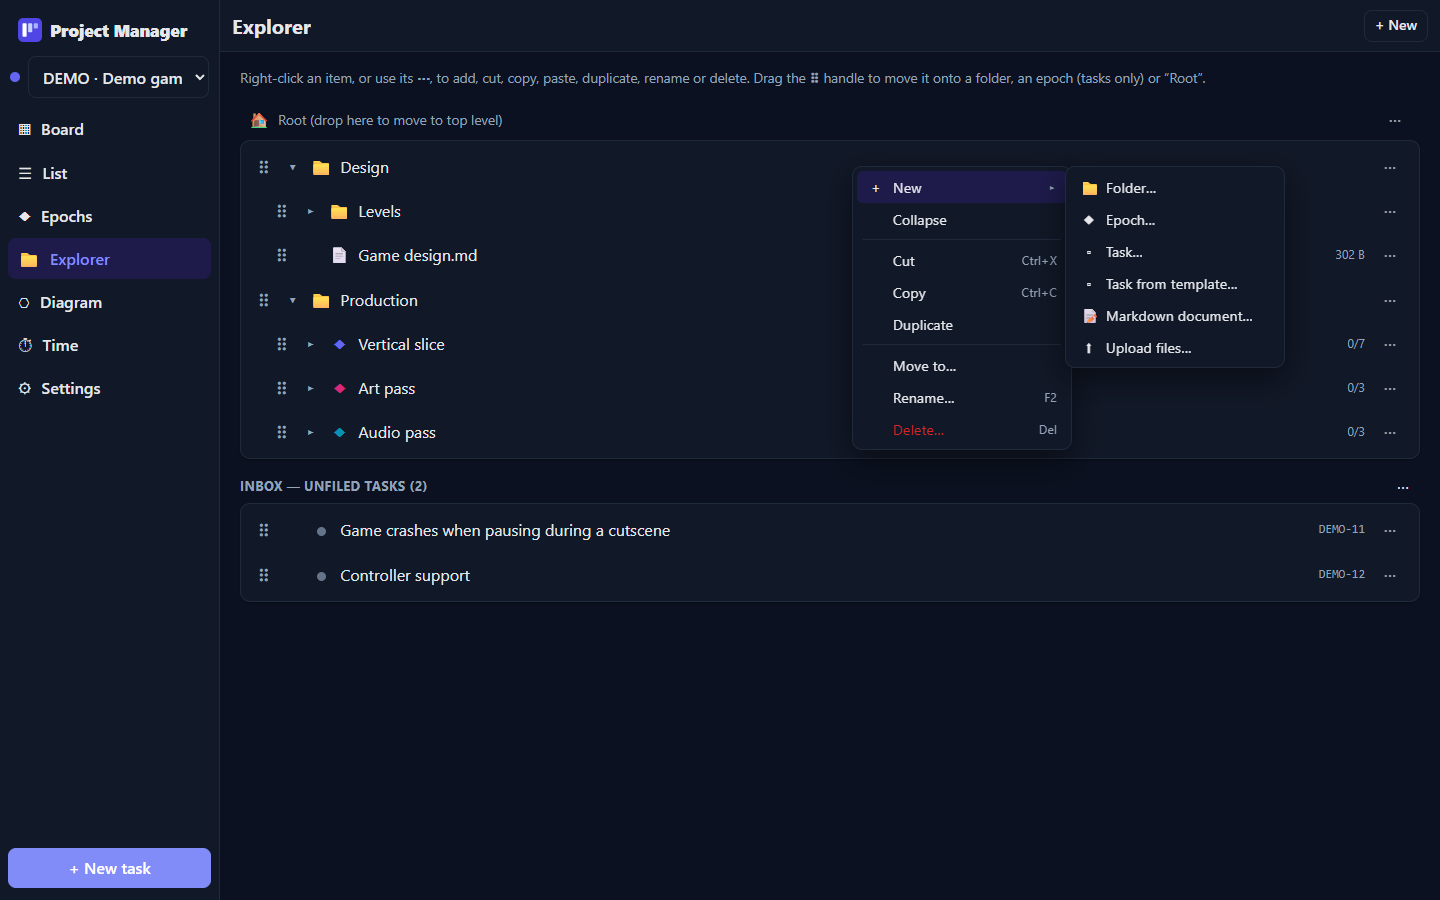
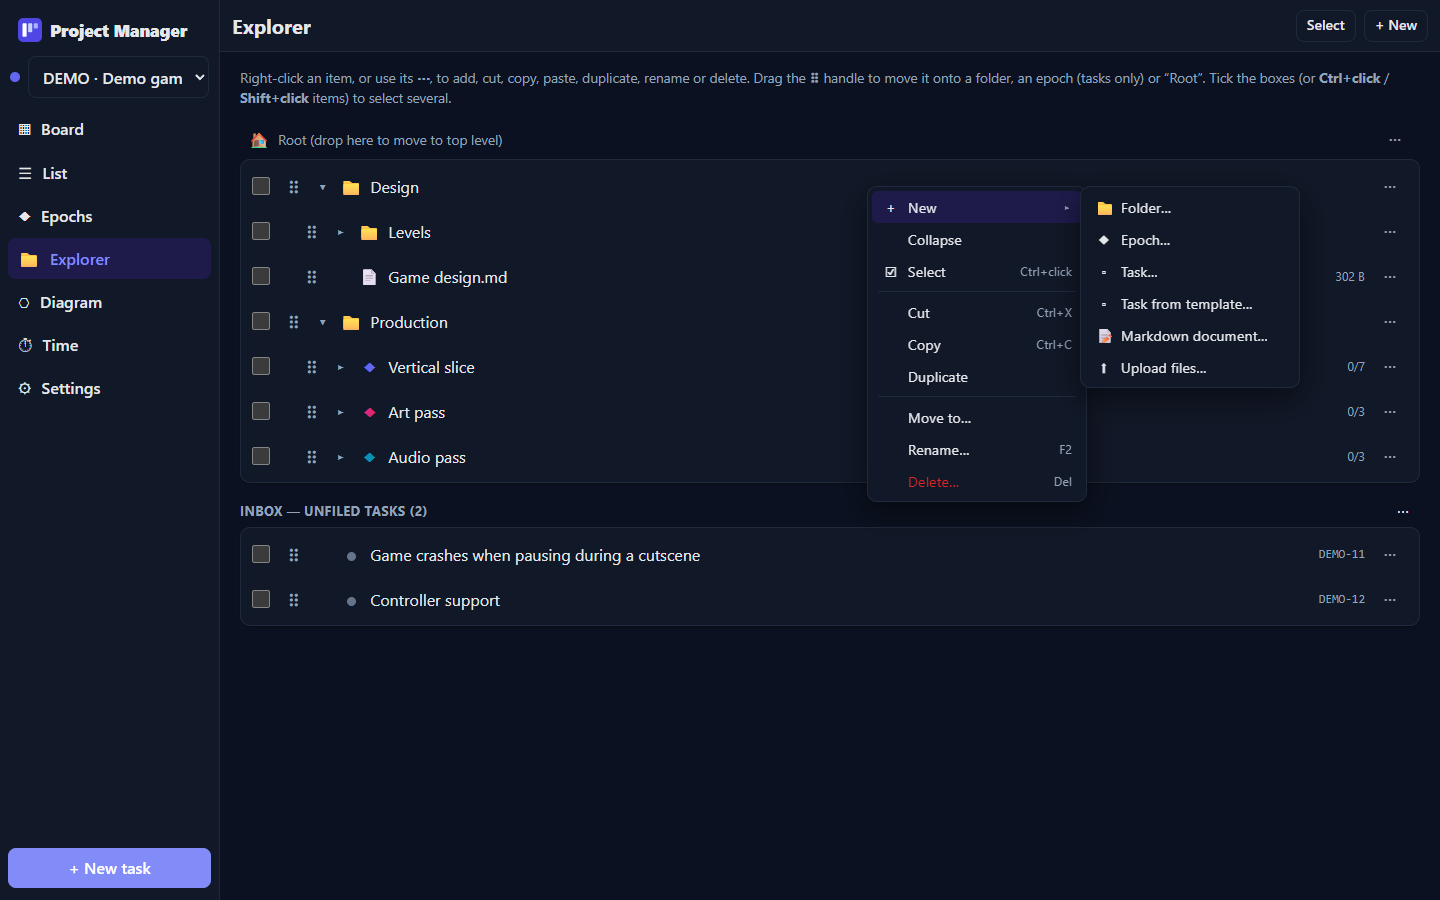
Show a task as blocked only once it catches up with its blocker
A task can't get ahead of the tasks that block it. It now shows as Blocked only once it has caught up with one (it is in the same column, or further on), until that task moves on, in every column. Before, it showed as Blocked whenever a blocker hadn't reached Alpha Complete, even when the blocker was well ahead of it. A blocker that is Ready to Ship blocks nothing.

- Server: openBlockers uses the new rule, and task details mark each "blocks" link with blocking: true while it holds its blocked task up.
- Task panel: the Blocked note names the tasks holding this one up and their columns, and links that hold a task up right now are marked in red, on both tasks.
- Board cards: the Blocked tooltip explains the rule.
- pm marks links "(holding this task up)" or "(waiting for this task)"; SKILL.md, API.md and the README explain the rule.
- Demo data: Guardian attack patterns is blocked by Enemy patrol AI, so the screenshots still show a Blocked card. The README screenshots are retaken; the Explorer one now shows its checkboxes.
- Tests: a blocked task walked across the board, and each blocker counting on its own.

diff --git a/server/routes/tasks.ts b/server/routes/tasks.ts
@@ -55,20 +55,41 @@ export interface CategoryRef {
 const LOGGED_EXPR = `COALESCE(minutes, MAX(0, CAST(ROUND((julianday('now') - julianday(started_at)) * 1440) AS INTEGER)))`;
 
 /**
- * A blocker stops blocking once it reaches Alpha Complete (implemented and through alpha QA).
- * Status ids are fixed constants, so inlining them in SQL is safe.
+ * A sub-task counts as done once it reaches Alpha Complete (implemented and through alpha QA).
+ * Status ids are fixed constants, so inlining them in SQL is safe (here and in columnSql).
  */
-const UNRESOLVED_STATUSES = STATUSES.slice(0, STATUSES.findIndex((s) => s.id === 'alpha_complete'))
+const NOT_DONE_STATUSES = STATUSES.slice(0, STATUSES.findIndex((s) => s.id === 'alpha_complete'))
   .map((s) => `'${s.id}'`)
   .join(', ');
+
+/** The last column, Ready to Ship: a blocker there holds nothing up. */
+const LAST_STATUS = STATUSES[STATUSES.length - 1].id;
+
+/** Where a status is on the board, from 0 (Open) to the last column; -1 for a status that isn't one. */
+const columnOf = (status: string) => STATUSES.findIndex((s) => s.id === status);
+
+/** columnOf in SQL, for a status column (NULL for a status that isn't one). */
+const columnSql = (col: string) => `CASE ${col} ${STATUSES.map((s, i) => `WHEN '${s.id}' THEN ${i}`).join(' ')} END`;
+
+/**
+ * Whether a task in `status` is held up by a task in `blockerStatus` that blocks it. A task can't get ahead of
+ * the tasks that block it: once it has caught up with one (it is in the same column, or further on) it is
+ * blocked, until that task moves on. A blocker that is Ready to Ship holds nothing up. TASK_SELECT counts the
+ * same thing in SQL (open_blockers), so the two must change together.
+ */
+function heldUpBy(status: string, blockerStatus: string): boolean {
+  const blocker = columnOf(blockerStatus);
+  return blocker >= 0 && blockerStatus !== LAST_STATUS && columnOf(status) >= blocker;
+}
 
 const TASK_SELECT = `
   SELECT t.*, p.key AS project_key, e.name AS epoch_name, e.color AS epoch_color,
     pt.number AS parent_number, pt.title AS parent_title,
     (SELECT COUNT(*) FROM tasks c WHERE c.parent_id = t.id) AS subtask_total,
-    (SELECT COUNT(*) FROM tasks c WHERE c.parent_id = t.id AND c.status NOT IN (${UNRESOLVED_STATUSES})) AS subtask_done,
+    (SELECT COUNT(*) FROM tasks c WHERE c.parent_id = t.id AND c.status NOT IN (${NOT_DONE_STATUSES})) AS subtask_done,
     (SELECT COUNT(*) FROM task_links l JOIN tasks b ON b.id = l.source_id
-      WHERE l.target_id = t.id AND l.kind = 'blocks' AND b.status IN (${UNRESOLVED_STATUSES})) AS open_blockers,
+      WHERE l.target_id = t.id AND l.kind = 'blocks' AND b.status <> '${LAST_STATUS}'
+        AND ${columnSql('t.status')} >= ${columnSql('b.status')}) AS open_blockers,
     (SELECT SUM(${LOGGED_EXPR}) FROM time_entries WHERE task_id = t.id) AS logged_minutes,
     EXISTS (SELECT 1 FROM time_entries WHERE task_id = t.id AND ended_at IS NULL AND minutes IS NULL) AS timer_running,
     (SELECT COUNT(*) FROM checklist_items WHERE task_id = t.id) AS checklist_total,
@@ -197,7 +218,7 @@ function toDto(row: TaskRow, cats: Map<number, CategoryRef>, nesting: Nesting) {
     loggedMinutes: row.logged_minutes ?? 0,
     timerRunning: !!row.timer_running,
     checklist: { done: row.checklist_done, total: row.checklist_total },
-    /** Tasks that block this one and haven't reached Alpha Complete yet. */
+    /** Tasks that block this one and that it has caught up with (see heldUpBy): it waits for them to move on. */
     openBlockers: row.open_blockers,
     /** The task this one is a sub-task of (always in the same project), or null. */
     parentId: row.parent_id,
@@ -208,8 +229,8 @@ function toDto(row: TaskRow, cats: Map<number, CategoryRef>, nesting: Nesting) {
     /** The tasks above this one, from the top-level task down to its parent ([] for a top-level task). */
     ancestorIds: nesting.ancestorIds,
     /**
-     * This task's own sub-tasks ("total"), how many of those are done (at Alpha Complete or later, the rule
-     * blockers use), and its sub-tasks at every level ("all": theirs too, and so on).
+     * This task's own sub-tasks ("total"), how many of those are done (at Alpha Complete or later), and its
+     * sub-tasks at every level ("all": theirs too, and so on).
      */
     subtasks: { done: row.subtask_done, total: row.subtask_total, all: nesting.all },
     categories,
@@ -264,7 +285,7 @@ function getTaskDetail(db: DB, id: number) {
   return {
     ...task,
     checklistItems: checklist,
-    links: getLinks(db, id),
+    links: getLinks(db, id, task.status),
     ancestors: getAncestors(db, task.ancestorIds),
     children: getChildren(db, id, task.projectId),
     activity,
@@ -300,7 +321,8 @@ function parseLinkKind(raw: string | undefined): { kind: LinkKind; reverse: bool
   return found;
 }
 
-function getLinks(db: DB, id: number) {
+/** Task `id`'s links, read from its side; `status` is its own status, to tell which links hold a task up. */
+function getLinks(db: DB, id: number, status: string) {
   const rows = db
     .prepare(
       `SELECT l.id, l.kind, l.source_id AS sourceId, o.id AS otherId, o.number, p.key AS projectKey, o.title, o.status, o.type
@@ -328,6 +350,11 @@ function getLinks(db: DB, id: number) {
       /** True when this task is the subject ("blocks", "duplicates"); always true for "relates". */
       outgoing,
       label: linkLabel(r.kind, outgoing),
+      /**
+       * Whether this "blocks" link holds the blocked task up right now (see heldUpBy): on "blocked by", this
+       * task waits for the other one; on "blocks", the other task waits for this one. Always false otherwise.
+       */
+      blocking: r.kind === 'blocks' && (outgoing ? heldUpBy(r.status, status) : heldUpBy(status, r.status)),
       task: {
         id: r.otherId,
         key: taskKey(r.projectKey, r.number),

diff --git a/test/api.test.ts b/test/api.test.ts
@@ -814,7 +814,7 @@ test('task links: kinds, both directions, blockers, conflicts, removal and casca
   assert.ok((await get(b)).links.some((l: { label: string; task: { id: number } }) => l.label === 'relates to' && l.task.id === c.id));
   assert.ok((await get(c)).links.some((l: { label: string; task: { id: number } }) => l.label === 'relates to' && l.task.id === b.id));
 
-  // A blocker stops counting once it reaches Alpha Complete.
+  // A blocker that has moved ahead of the task doesn't hold it up (the test after next has the whole rule).
   await call('POST', `/api/v1/tasks/${a.id}/status`, { status: 'Alpha Complete' });
   assert.equal((await listed(b)).openBlockers, 0);
 
@@ -839,9 +839,57 @@ test('a task can have several blockers and other links at once', async () => {
   const detail = (await call('GET', `/api/v1/tasks/${target.id}`)).body;
   assert.deepEqual(detail.links.map((l: Json) => l.label).sort(), ['blocked by', 'blocked by', 'relates to']);
   assert.equal(detail.openBlockers, 2);
-  // Each blocker clears independently.
-  await call('POST', `/api/v1/tasks/${b1.id}/status`, { status: 'Alpha Complete' });
+  // Only "blocks" links hold a task up.
+  assert.deepEqual(detail.links.map((l: Json) => [l.label, l.blocking]).sort(), [['blocked by', true], ['blocked by', true], ['relates to', false]]);
+  // Each blocker counts on its own: one moving ahead leaves the other.
+  await call('POST', `/api/v1/tasks/${b1.id}/status`, { status: 'In Progress' });
   assert.equal((await call('GET', `/api/v1/tasks/${target.id}`)).body.openBlockers, 1);
+  // Catching up with it counts it again; the one still Open counts too, as the task is now past it.
+  await call('POST', `/api/v1/tasks/${target.id}/status`, { status: 'In Progress' });
+  assert.equal((await call('GET', `/api/v1/tasks/${target.id}`)).body.openBlockers, 2);
+});
+
+test('a task is blocked once it catches up with a task that blocks it, until that task moves on', async () => {
+  const mk = async (title: string) => (await call('POST', '/api/v1/tasks', { title })).body;
+  const [a, b] = [await mk('Blocker A'), await mk('Blocked B')];
+  assert.equal((await call('POST', `/api/v1/tasks/${a.id}/links`, { task: b.id, kind: 'blocks' })).status, 201);
+  const move = async (t: Json, status: string) => {
+    const r = await call('POST', `/api/v1/tasks/${t.id}/status`, { status });
+    assert.equal(r.status, 200, JSON.stringify(r.body));
+  };
+  /** How many tasks hold B up, after checking that the list, the detail and both sides' links agree. */
+  const heldUp = async () => {
+    const listed = (await call('GET', `/api/v1/tasks?q=${b.key}`)).body.tasks.find((x: Json) => x.id === b.id);
+    const bDetail = (await call('GET', `/api/v1/tasks/${b.id}`)).body;
+    const aDetail = (await call('GET', `/api/v1/tasks/${a.id}`)).body;
+    assert.equal(bDetail.openBlockers, listed.openBlockers);
+    assert.equal(bDetail.links[0].blocking, listed.openBlockers === 1, 'B\'s "blocked by" link');
+    assert.equal(aDetail.links[0].blocking, listed.openBlockers === 1, 'A\'s "blocks" link');
+    assert.equal(aDetail.openBlockers, 0);
+    return listed.openBlockers;
+  };
+
+  // Both Open: B has caught up with A.
+  assert.equal(await heldUp(), 1);
+  // A moves ahead: B isn't held up until it reaches A's column.
+  await move(a, 'Alpha QA');
+  assert.equal(await heldUp(), 0);
+  await move(b, 'In Progress');
+  assert.equal(await heldUp(), 0);
+  await move(b, 'Alpha QA');
+  assert.equal(await heldUp(), 1);
+  // Getting past A doesn't help: it still waits for A.
+  await move(b, 'Beta In Progress');
+  assert.equal(await heldUp(), 1);
+  // The same in every column, not just up to Alpha Complete.
+  await move(a, 'Beta In Progress');
+  assert.equal(await heldUp(), 1);
+  await move(a, 'Beta QA');
+  assert.equal(await heldUp(), 0);
+  // A blocker that is Ready to Ship blocks nothing, even with B there too.
+  await move(a, 'Ready to Ship');
+  await move(b, 'Ready to Ship');
+  assert.equal(await heldUp(), 0);
 });
 
 test('sub-tasks: own epochs, progress, filters, nesting in one project, changing the parent', async () => {

diff --git a/web/src/components/TaskSheet.tsx b/web/src/components/TaskSheet.tsx
@@ -7,7 +7,7 @@ import { useToast } from './Toast';
 import { useMutate } from '../mutate';
 import { useTaskParam } from '../taskParam';
 import type { TaskDetail } from '../types';
-import { clip, contrastText, formatMinutes, joinAnd, plural, subtaskDeleteWords, timeAgo } from '../util';
+import { clip, contrastText, cx, formatMinutes, joinAnd, plural, subtaskDeleteWords, timeAgo } from '../util';
 import { useUndoableDelete } from '../undoableDelete';
 import { Markdown, Spinner, StatusPill } from './Bits';
 import { askConfirm } from './Confirm';
@@ -571,6 +571,8 @@ function LinksSection({ task }: { task: TaskDetail }) {
   const undoable = useUndoableDelete();
   const linkUrl = (otherId: number) => `${V1}/tasks/${task.id}/links/${otherId}`;
   const links = task.links.filter((l) => !undoable.isHidden(linkUrl(l.task.id)));
+  // The tasks holding this one up: it has caught up with them on the board.
+  const holdingUp = links.filter((l) => l.blocking && !l.outgoing);
   const open = useOpenTask();
   const [adding, setAdding] = useState(false);
   const [kind, setKind] = useState('relates');
@@ -586,14 +588,32 @@ function LinksSection({ task }: { task: TaskDetail }) {
         <div className="section-title">Links {links.length > 0 && `(${links.length})`}</div>
         {!adding && <button className="btn btn-sm" onClick={() => setAdding(true)}>+ Link task</button>}
       </div>
-      {task.openBlockers > 0 && (
+      {holdingUp.length > 0 && (
         <div className="blocked-note small">
-          ⛔ Blocked by {task.openBlockers} open task{task.openBlockers > 1 ? 's' : ''} (not yet Alpha Complete)
+          ⛔ Blocked by {joinAnd(holdingUp.map((l) => `${l.task.key} (${l.task.statusLabel})`))}: this task has caught up with{' '}
+          {holdingUp.length === 1 ? `it, so it can move on once ${holdingUp[0].task.key} does` : 'them, so it can move on once they do'}.
         </div>
       )}
       {links.map((l) => (
         <div key={l.id} className="link-row">
-          <span className="link-label tiny muted">{l.label}</span>
+          {/* A "blocks" link holding a task up right now (this one, or on "blocks" the other one) is marked in red. */}
+          <span
+            className={cx('link-label tiny', l.blocking ? 'blocking' : 'muted')}
+            title={
+              !l.blocking
+                ? undefined
+                : l.outgoing
+                  ? `${l.task.key} has caught up with this task, so it waits for this one to move on`
+                  : `Holding this task up: it has caught up with ${l.task.key}, so it waits for ${l.task.key} to move on`
+            }
+          >
+            {l.blocking && (
+              <>
+                <span role="img" aria-label={l.outgoing ? 'Held up by this task:' : 'Holding this task up:'}>⛔</span>{' '}
+              </>
+            )}
+            {l.label}
+          </span>
           <a className="grow ellipsis" href={`?task=${l.task.id}`} onClick={(e) => open(e, l.task.id)}>
             <span className="key">{l.task.key}</span> {l.task.title}
           </a>

diff --git a/web/src/types.ts b/web/src/types.ts
@@ -55,7 +55,10 @@ export interface Task {
   loggedMinutes: number;
   timerRunning: boolean;
   checklist: { done: number; total: number };
-  /** Tasks blocking this one that haven't reached Alpha Complete. */
+  /**
+   * Tasks that block this one and that it has caught up with (they are in its column or an earlier one): it
+   * waits for them to move on. A blocker that is Ready to Ship doesn't count.
+   */
   openBlockers: number;
   /** The task this one is a sub-task of (same project), or null. */
   parentId: number | null;
@@ -91,6 +94,11 @@ export interface TaskLink {
   outgoing: boolean;
   /** How the link reads from this task: "blocks", "blocked by", "duplicates", "duplicated by", "relates to". */
   label: string;
+  /**
+   * A "blocks" link that holds the blocked task up right now (it has caught up with its blocker): on "blocked by",
+   * this task waits for the other one; on "blocks", the other task waits for this one.
+   */
+  blocking: boolean;
   task: { id: number; key: string; title: string; status: string; statusLabel: string; type: string };
 }
 

diff --git a/scripts/demo-seed.ts b/scripts/demo-seed.ts
@@ -236,9 +236,13 @@ const bossParts: Array<[string, string, Json, string, string]> = [
   ['Guardian sprites and animations', 'Art', artPass, 'alpha_complete', 'Art'],
   ['Guardian roar and hit sounds', 'Audio', audioPass, 'open', 'Audio'],
 ];
+const parts: Json[] = [];
 for (const [title, type, epoch, status, category] of bossParts) {
-  await call('POST', '/api/v1/tasks', { title, type, status, epochId: epoch.id, categories: [category], parent: boss.id });
+  parts.push(await call('POST', '/api/v1/tasks', { title, type, status, epochId: epoch.id, categories: [category], parent: boss.id }));
 }
+// The attack patterns build on the enemy AI. Both are in progress, so the patterns show as Blocked until the AI
+// moves on. (Save and load also waits for the AI, but it hasn't caught up with it: it is still Open.)
+await call('POST', `/api/v1/tasks/${parts[0].id}/links`, { task: tasks.enemies.id, kind: 'blocked_by' });
 
 // Templates: a boss fight like the one above (its art and audio in their own epochs), and a bug report.
 await call('POST', '/api/v1/templates', {

diff --git a/web/src/components/TaskCard.tsx b/web/src/components/TaskCard.tsx
@@ -108,7 +108,12 @@ export function TaskCard({ task, onOpen, onStep, onMove, className = '', hideEpo
       )}
       <div className="meta">
         {task.openBlockers > 0 && (
-          <span className="blocked-chip" title={`Blocked by ${task.openBlockers} task${task.openBlockers > 1 ? 's' : ''} not yet Alpha Complete`}>
+          <span
+            className="blocked-chip"
+            title={`Blocked: it has caught up with ${
+              task.openBlockers === 1 ? 'a task that blocks it, so it waits for that task' : `${task.openBlockers} tasks that block it, so it waits for them`
+            } to move on first`}
+          >
             ⛔ Blocked
           </span>
         )}

diff --git a/web/src/styles.css b/web/src/styles.css
@@ -316,6 +316,8 @@ html.resizing, html.resizing * { cursor: col-resize !important; user-select: non
 .link-row a { color: var(--text); min-width: 0; }
 .link-row a:hover .key, .link-row a:hover { text-decoration: underline; }
 .link-label { flex: 0 0 auto; min-width: 74px; text-transform: uppercase; letter-spacing: 0.02em; font-weight: 600; }
+/* A "blocks" link holding a task up right now, like the Blocked flag. */
+.link-label.blocking { color: var(--danger); font-weight: 700; }
 .link-add { margin-top: 6px; }
 .link-add .row > input { flex: 1; min-width: 0; }
 .link-results { display: grid; gap: 4px; }

diff --git a/tools/agent/project-tracker/SKILL.md b/tools/agent/project-tracker/SKILL.md
@@ -50,7 +50,7 @@ When the user asks for something new (e.g. "add a settings page with a dark mode
 The user often captures ideas on their phone. When they say things like "work on APP-12", "look at my new ideas", "what's in the inbox" or "pick up the next open task":
 
 1. Find it: `pm task get APP-12`, or list candidates with `pm task list --status open` / `pm task list --folder inbox` (quick ideas without a folder or epoch) / `pm task list --created-by <username>` / `pm task list --q "<keywords>"`.
-2. Read everything: the description, checklist, links and recent activity from `pm task get`. If it says **BLOCKED**, its blockers (`blocked by` links) aren't at Alpha Complete yet. Tell the user and suggest doing the blocker first, rather than starting it anyway. Images in the description look like `![name](/api/v1/files/<id>/content)`. Download them with `pm file download <id> --out <tmp path>` and look at them, since sketches and screenshots often carry the actual idea. Linked documents can be read with `pm doc read <id>`.
+2. Read everything: the description, checklist, links and recent activity from `pm task get`. If it says **BLOCKED**, it has caught up with a task that blocks it: a `blocked by` task, marked `(holding this task up)`, is in the same column or an earlier one. Don't move it to the next column until that task has moved on. If it's still Open, tell the user and suggest doing the blocker first, rather than starting it anyway. Images in the description look like `![name](/api/v1/files/<id>/content)`. Download them with `pm file download <id> --out <tmp path>` and look at them, since sketches and screenshots often carry the actual idea. Linked documents can be read with `pm doc read <id>`.
 3. Phone notes are usually short. Before coding, flesh the task out: fill in the description (summary, acceptance criteria, implementation notes), the type, the categories and an estimate with `pm task update`, and tell the user what you understood. If the idea is genuinely ambiguous, ask first.
 4. Then follow "While working" and "Finishing" below.
 
@@ -65,7 +65,7 @@ If the user asks which of their ideas to do next, list them and recommend an ord
 - **Several tasks at once**: `pm task status APP-12 APP-13 "Alpha QA" --note "..."` and `pm task update APP-12 APP-13 --epoch "Version 1.0"` change them all in one request; if one change is refused, none is made. Every flag but `--title` and `--desc` works this way.
 - **Bugs found along the way** that are out of scope: create a separate `--type Bug` task in the same epoch rather than silently fixing or forgetting them. Link it to the task you were on: `pm task link APP-31 relates to APP-12`.
 - **Links between tasks**: `pm task link APP-12 blocks APP-9` (also `blocked by`, `duplicates`, `duplicated by`, `relates to`; plain `pm task link APP-12 APP-9` means relates to). Remove a link with `pm task unlink APP-12 APP-9`. Writing a key like `APP-9` in any description or note also makes it clickable in the web UI.
-  - Record a dependency as soon as you find one: if APP-12 can't be finished until APP-9 is, run `pm task link APP-12 blocked by APP-9`.
+  - Record a dependency as soon as you find one: if APP-12 builds on APP-9, run `pm task link APP-12 blocked by APP-9`. APP-12 can then move along the board up to APP-9's column but not past it: it shows BLOCKED whenever it has caught up with APP-9, until APP-9 moves on (a blocker that is Ready to Ship blocks nothing).
   - If you find a duplicate, link it with `duplicates` and tell the user. Don't delete it.
 
 ## Sub-tasks, checklist items and links

diff --git a/docs/API.md b/docs/API.md
@@ -69,7 +69,9 @@ A task reference is its key (`APP-12`, case-insensitive) or its numeric `id`. A 
 | `POST /api/v1/tasks/:ref/links` | `{task*: "APP-9" \| 9, kind?}`. `kind` is one of `relates` (default), `blocks`, `blocked_by`, `duplicates` or `duplicated_by`, read from this task's side; labels like `"blocked by"` also work. Both tasks must be in the same project (400 otherwise). 409 if the two tasks are already linked: one link per pair. Returns the task, including `links`. |
 | `DELETE /api/v1/tasks/:ref/links/:other` | Removes the link between the two tasks, whichever direction it was made in |
 
-Each entry in `links` is `{id, kind, outgoing, label, task: {id, key, title, status, statusLabel, type}}`, where `label` reads from this task's side, e.g. `"blocked by"`. Task lists include `openBlockers`: the number of tasks blocking this one that haven't reached Alpha Complete.
+Each entry in `links` is `{id, kind, outgoing, label, blocking, task: {id, key, title, status, statusLabel, type}}`, where `label` reads from this task's side, e.g. `"blocked by"`.
+
+**Blockers.** A task can't get ahead of the tasks that block it: once it has caught up with one (it is in the same column, or further on), it is blocked until that task moves on. A blocker that is Ready to Ship blocks nothing. `blocking` is true on a `blocks` link that holds its blocked task up right now: on `"blocked by"` that is this task, on `"blocks"` the other one. Task lists include `openBlockers`: how many tasks are holding this one up.
 
 **Sub-tasks.** A sub-task is a full task with a `parent` in the same project: it has its own status, estimate, time, epoch and folder (often a different epoch from its parent's). Sub-tasks can have sub-tasks of their own, up to `maxSubtaskDepth` (5) levels below a top-level task; a task with sub-tasks can become a sub-task (they move along), but not of one of its own sub-tasks, and not if that would go past the limit (400). Tasks include `parentId`, `parent: {id, key, title} | null`, `ancestorIds` (the tasks above it, from the top-level task down to its parent) and `subtasks: {done, total, all}`: `total` counts its own sub-tasks, `done` those of them at Alpha Complete or later, and `all` its sub-tasks at every level. Adding, moving and removing a sub-task is noted in the activity of the task and of its parent.
 

diff --git a/README.md b/README.md
@@ -7,6 +7,7 @@ A self-hosted project tracker that runs on your own computer or home server. You
 - **Projects**: as many as you like, each with its own task keys (`APP-12`, `WEB-3`), board, epochs, files, diagram, task types and categories. Each account only ever sees its own projects.
 - **Kanban board**: Open → In Progress → Alpha QA → Alpha Complete → Beta In Progress → Beta QA → Beta Complete → Ready to Ship. Drag and drop on desktop; on phones, one column at a time with ◀ / Move to… / ▶ buttons.
 - **Tasks**: title, type, status, priority, categories, markdown description, checklist, estimate, links between tasks (blocks / blocked by / duplicates / relates to) and an activity log of who moved what, Claude included.
+  - **Blockers**: a task can't get ahead of the tasks that block it. It shows as Blocked once it catches up with one (reaches its column), until that task moves on.
   - **Sub-tasks**: full tasks under a parent, each in its own epoch if you like (a card's art and sound in the Art and Audio epochs). Sub-tasks can have sub-tasks of their own, up to 5 levels deep. Board cards mark sub-tasks and name their parent, and the parent shows how many are done.
   - **Templates**: save a task, with its own sub-tasks, as a template, then make new ones from it in one go. `{title}` in a template becomes the new task's name.
   - **Multi-select**: tick several tasks on the board or in the list (or Ctrl/Shift+click; **Select** on phones) to change their status, epoch, priority, type, categories or parent at once, drag them together, or delete them.
